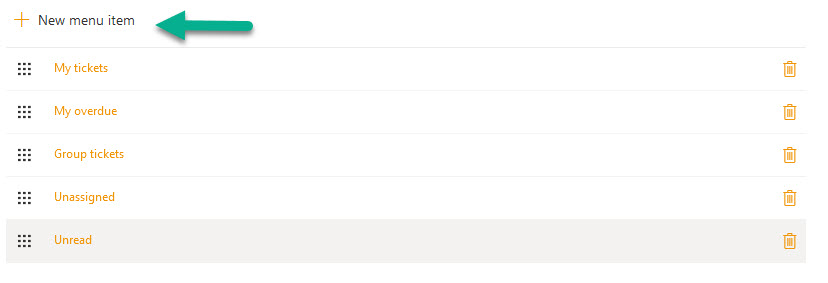
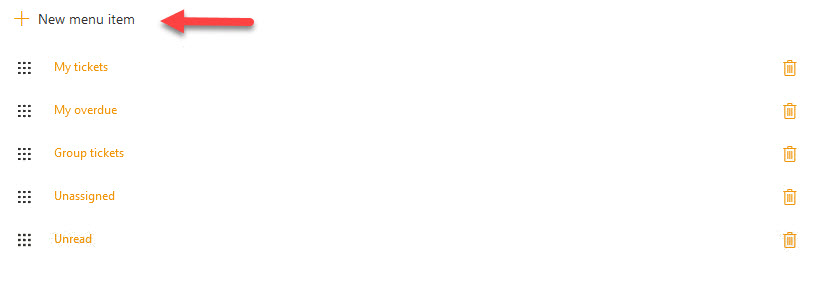
corrected typo + changed screenshot

diff --git a/Online/Configuration Guide/Appearance.rst b/Online/Configuration Guide/Appearance.rst
@@ -17,7 +17,7 @@ display setting and a list of HelpDesk navigation elements.
 Top menu customization 
 ~~~~~~~~~~~~~~~~~~~~~~
 
-HelpDesk top menu is a set of links  with different ticket views. You can customize them by adding a new button with a view or URL to external site. You can drag the existing links to chnage their order as well.
+HelpDesk top menu is a set of links  with different ticket views. You can customize them by adding a new button with a view or URL to external site. You can drag the existing links to change their order as well.
 
 To add a new item to top navigation, click “New top menu item”.
 
@@ -27,7 +27,7 @@ You will see a dialog window where you need provide a title for a new item and s
 
 |NewItem|
 
-Don’t forget to save a new item. After adding this new element you can drga it to change the links' order 
+Don’t forget to save a new item. After adding this new element you can drag it to change the links' order 
 
 |NewItemOrder|
 
